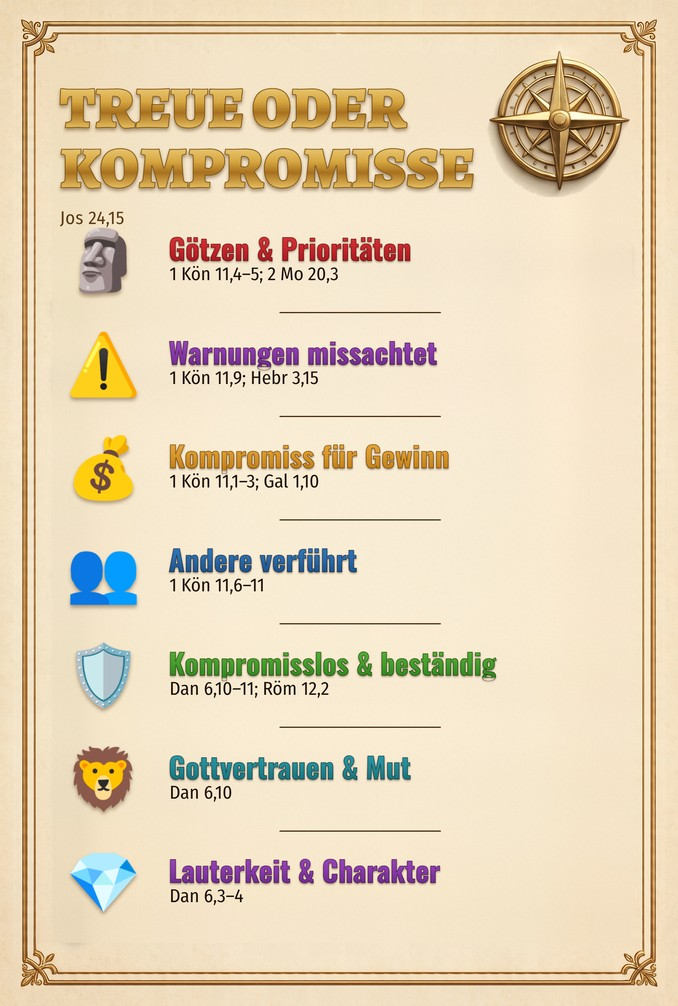
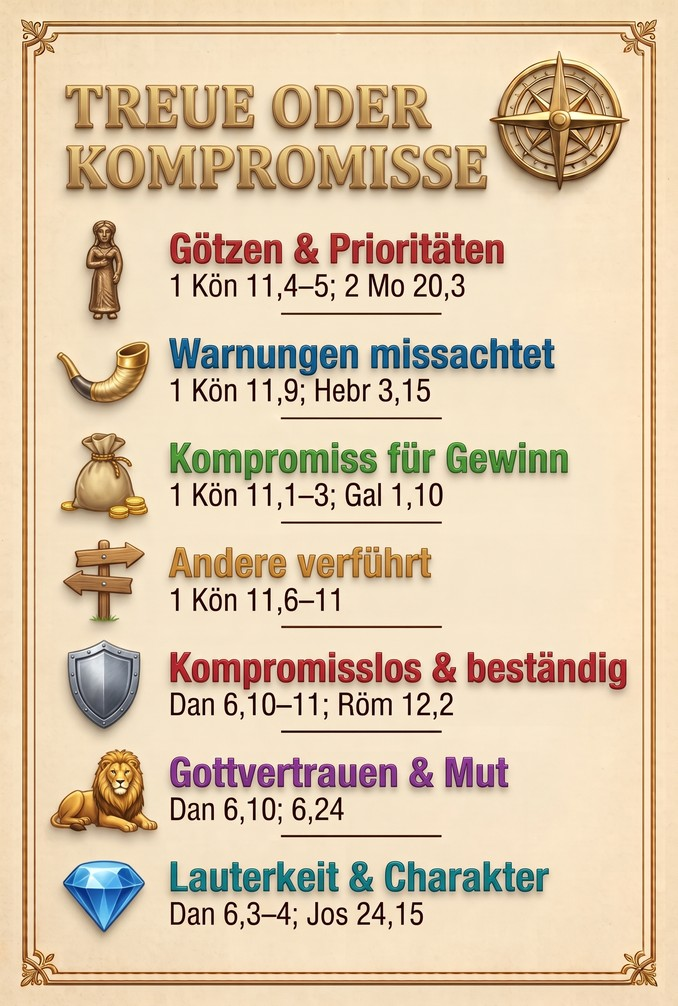
Karte 34: neue Rückseite (Gemini) mit sieben Zeilen
Claude-Session: https://claude.ai/code/session_0124h5yDy6USGZ8DS8E24Fju

diff --git a/card-text.js b/card-text.js
@@ -35,7 +35,7 @@ window.COR_DEO_TEXT = {
  "31": "DER WILLE DES VATERS IST: | VIEL FRUCHT BRINGEN | Joh 15,8 | DER UNFRUCHTBARE FEIGENBAUM | Lk 13,6–9 | PHILIPPUS DER EVANGELIST | Apg 8,26–40 | WIE BRINGE ICH FRUCHT FÜR DAS REICH GOTTES? | GEISTLICHE FOLGEN VON FRUCHTLOSIGKEIT | Vernachlässigte Gaben | Mt 25,14–30 | Verfehlte Verherrlichung Gottes | Joh 15,8; 4 Mo 14,11 | Geistlicher Stillstand | Gal 5,22–23; Hebr 5,12–14; 1 Kor 3,1–2 | Schwächung des Leibes Christi | Eph 4,16; Röm 12,4–5; 3 Joh 9–10 | Falsche Jüngerschaft | Mt 7,16–20; Joh 15,8; Lk 22,47–48 | Trennung von Gottes Bestimmung | Lk 3,9; Joh 15,2; 1 Sam 15,26 | Gefahr des Abfalls | Hebr 6,7–8; Hebr 4,11; 2 Tim 4,10",
  "32": "DER WILLE DES VATERS IST: | TÄGLICH ANDEREN DIENEN | Gal 5,13 | DER PRIESTER UND DER LEVIT | Lk 10,30–37 | JESUS | Joh 13,1–17 | WIE KANN ICH ANDEREN TÄGLICH DIENEN, UM DAS HERZ GOTTES ZU SPIEGELN? | WAS DIR ENTGEHT, WENN DU NICHT DIENST | Gottes Ebenbild nicht wiedergeben | Lk 10,33–37; Jona 4,1–2 | Liebe ohne Tat ist leer | Jak 2,15–17; Apg 9,36–39 | Gleichgültigkeit gebiert Ungerechtigkeit | Est 4,13–16; Lk 10,31–32 | Zerfall der menschlichen Familie | Rut 1,16–17; 1 Mo 4,9 | Anderen dienen heißt Christus dienen | Mt 25,40; 1 Joh 4,20; Lk 18,9–14 | Selbstsucht führt zur Isolation | 2 Tim 4,9–11 | Gottes Ziel & Auftrag verfehlen | 1 Mo 41,39–41; 1 Sam 15,17–23",
  "33": "DER WILLE DES VATERS IST: | JÜNGERSCHAFT & EVANGELISATION | Mt 28,19–20 | JONA | Jona 1,1–3 | JESAJA | Jes 6,1–8 | BIN ICH GEHORSAM GEGENÜBER GOTTES RUF, SELBST WENN ES SCHWERFÄLLT? | DNA DER JÜNGERSCHAFT | Lebe für Gottes Reich & Ewigkeit | Mt 24,14; Phil 3,20; 2 Kor 4,18 | Lebe gesandt | Mt 28,19–20; Joh 20,21; Apg 1,8; 2 Kor 5,20 | Folge Jesus von ganzem Herzen nach | Lk 9,23; Mt 16,24; Joh 10,27; Phil 3,8–10 | Wandle in neuer Identität | Röm 6,3–4; Apg 2,38; Gal 3,27; Kol 2,12 | Gehorche täglich dem Wort Christi | Joh 8,31; Joh 14,15; Mt 7,24; Jak 1,22 | Vertraue auf Seine Kraft & Gegenwart | Mt 28,18–20; Joh 14,16; Phil 4,13 | Multipliziere dich: mache Jünger | 2 Tim 2,2; Tit 2,3–4; Kol 1,28; 1 Thess 2,8",
- "34": "DER WILLE DES VATERS IST: TREUE IM DIENST, 1 Kor 4,2 | KÖNIG SALOMO | DANIEL | 1 Kön 11,4–8 | Dan 6,17–23 | bleibe ich treu wie daniel oder entferne ich mich wie salomo? | Treue oder Kompromisse | Götzen & Prioritäten | 1 Kön 11,4–5; 2 Mo 20,3 | Warnungen missachtet | 1 Kön 11,9; Hebr 3,15 | Kompromiss für Gewinn | 1 Kön 11,1–3; Gal 1,10 | Andere verführt | 1 Kön 11,6–11 | Kompromisslos & beständig | Dan 6,10–11; Röm 12,2 | Gottvertrauen & Mut | Dan 6,10 | Lauterkeit & Charakter | Dan 6,3–4",
+ "34": "DER WILLE DES VATERS IST: TREUE IM DIENST, 1 Kor 4,2 | KÖNIG SALOMO | DANIEL | 1 Kön 11,4–8 | Dan 6,17–23 | bleibe ich treu wie daniel oder entferne ich mich wie salomo? | Treue oder Kompromisse | Götzen & Prioritäten | 1 Kön 11,4–5; 2 Mo 20,3 | Warnungen missachtet | 1 Kön 11,9; Hebr 3,15 | Kompromiss für Gewinn | 1 Kön 11,1–3; Gal 1,10 | Andere verführt | 1 Kön 11,6–11 | Kompromisslos & beständig | Dan 6,10–11; Röm 12,2 | Gottvertrauen & Mut | Dan 6,10; 6,24 | Lauterkeit & Charakter | Dan 6,3–4; Jos 24,15",
  "35": "Der Wille des Vaters ist: | GERECHTIGKEIT | Mi 6,8 | KÖNIG AHAB | 1 Kön 21 | KÖNIG DAVID | 2 Sam 12; Ps 51 | Reagiere ich auf Zurechtweisung wie David oder wie Ahab? | GERECHTIGKEIT IN TAT | Sprich gegen Unrecht | Spr 31,8–9; Jes 1,17 | Rede Unrecht in der Gemeinde an | Jer 7,4–11; Mt 21,12–13 | Gerechtigkeit braucht Mut | Est 4,14; Hebr 11,33–34 | Steh zu den Unterdrückten | 2 Mo 23,6; Lk 4,18–19 | Verändere ungerechte Systeme | Am 5,10–15; Apg 16,35–39 | Opfere für andere | Neh 5,6–12; 1 Joh 3,16–18 | Handle wie Jesus – gerecht | Joh 2,13–17; Röm 3,25–26",
  "36": "DER WILLE DES VATERS IST: | BARMHERZIGKEIT | Mi 6,8; Lk 15,11–32 | ÄLTERER SOHN | JÜNGERER SOHN | Lk 15,25–32 | Lk 15,17–24 | WELCHEM SOHN GLEICHE ICH HEUTE? | GRUNDLAGEN DER BARMHERZIGKEIT | Gottes Barmherzigkeit & Liebe sind bedingungslos | Lk 15,20–24; Mi 6,8 | Wahre Vergebung verwandelt Leben | Lk 15,22–24; Mt 18,33 | Umkehr öffnet die Tür zur Wiederherstellung | Lk 15,17–24 | Stolz und Gesetzlichkeit versperren den Zugang zur Barmherzigkeit | Lk 15,25–32; Hos 6,6; Mt 23,23 | Wir sind berufen, einzuschließen, nicht auszuschließen | Lk 15,31–32; Lk 15,20–24,31–32 | Demut ist die Wurzel der Barmherzigkeit",
  "37": "DER WILLE DES VATERS IST: | VERGEBUNG | Mt 6,14–15 | DER UNBARMHERZIGE KNECHT | Mt 18,21–35 | STEPHANUS | Apg 7,54–60 | WEM MUSST DU HEUTE VERGEBEN? | WIE MAN TÄGLICH VERGIBT | Vergib, wie Christus vergeben hat | Eph 4,32; Kol 3,13 | Vergib ohne Grenze | Mt 18,21–35; Mk 11,25 | Vergib, auch wenn sie es nicht „verdienen“ | Apg 7,60; Röm 5,8; Lk 23,34 | Bete für & segne die Beleidiger | Mt 5,44; Lk 6,27–28 | Lass Bitterkeit los | Röm 12,19; Hebr 12,15; 1 Petr 3,9 | Vergebung ist ein Weg | Lk 17,3–4; Gal 5,22–23 | Setze gesunde Grenzen | Spr 4,23; Röm 12,18; Mt 10,16",

diff --git a/sw.js b/sw.js
@@ -6,8 +6,8 @@
      sodass ein Update der Seite (VERSION erhöhen) die ~7,6 MB nicht erneut herunterlädt.
    - Fremde Adressen werden nicht angefasst (die Schriften liegen im Ordner fonts/ und werden wie Bilder aus dem Cache bedient).
    Bei Änderungen an diesem Skript: VERSION erhöhen. Bei neuen/geänderten Kartenbildern: IMG_CACHE erhöhen. */
-var VERSION = "cordeo-v129";
-var IMG_CACHE = "cordeo-img-v112";
+var VERSION = "cordeo-v130";
+var IMG_CACHE = "cordeo-img-v113";
 var CARD_COUNT = 120;                       // Anzahl der Bilddateien "COR DEO-Karten-001.jpg" … "-120.jpg"
 var PRECACHE_PARALLEL = 4;
 var SHELL = ["./", "index.html", "manifest.json", "pwa.js", "share.js", "legal.js", "card-text.js", "fonts/fonts.css", "share-qr.svg", "share-qr.png",

diff --git a/index.html b/index.html
@@ -2191,7 +2191,7 @@ window.COR_DEO_NOTES = {
       ]},
       { h: "Rechts · Daniel: Treue", items: [
         ["Kompromisslos & beständig", "Daniel betete weiter wie vorher, obwohl es verboten war. Er ließ sich nicht dem Zeitgeist anpassen."],
-        ["Gottvertrauen & Mut", "Er öffnete sein Fenster Richtung Jerusalem und dankte Gott."],
+        ["Gottvertrauen & Mut", "Er öffnete sein Fenster Richtung Jerusalem und dankte Gott. Gott bewahrte ihn in der Löwengrube."],
         ["Lauterkeit & Charakter", "Man fand keinen Grund zur Klage, weil er treu war."]
       ]}
     ],
